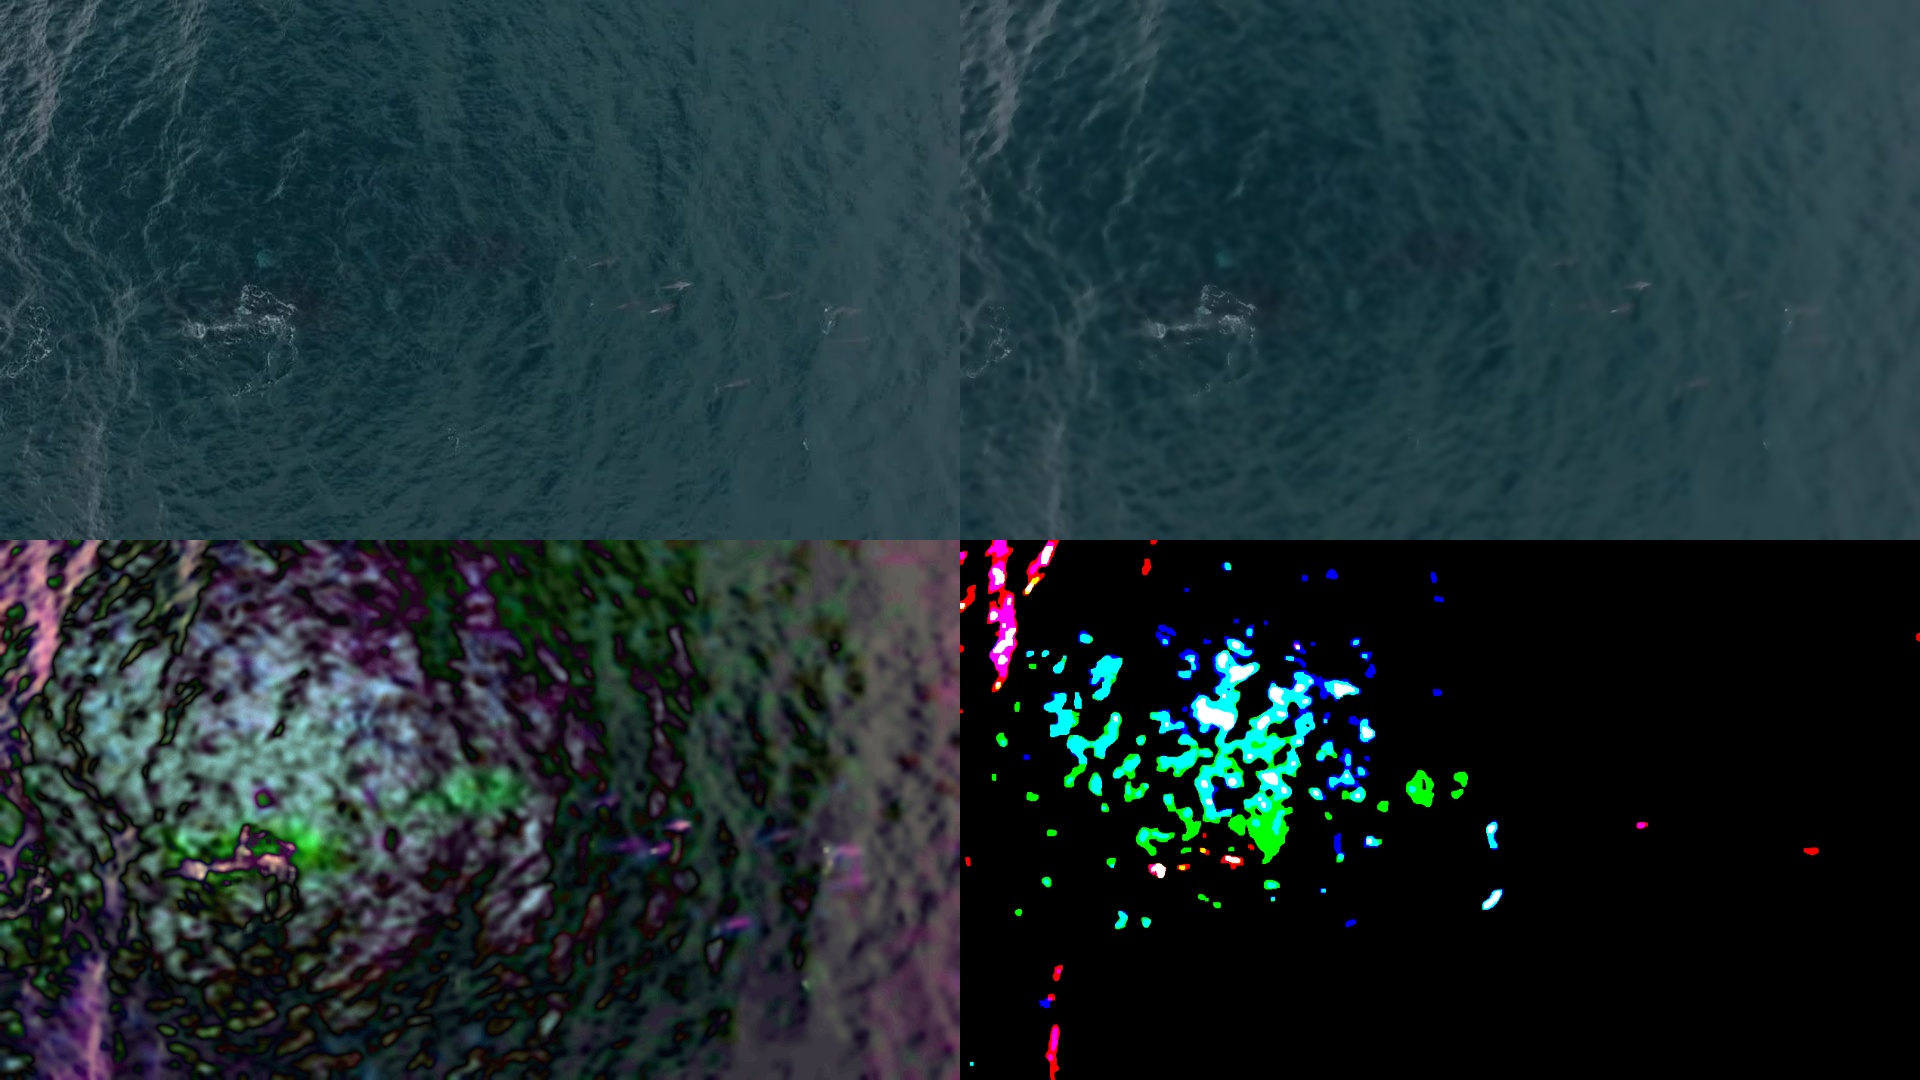
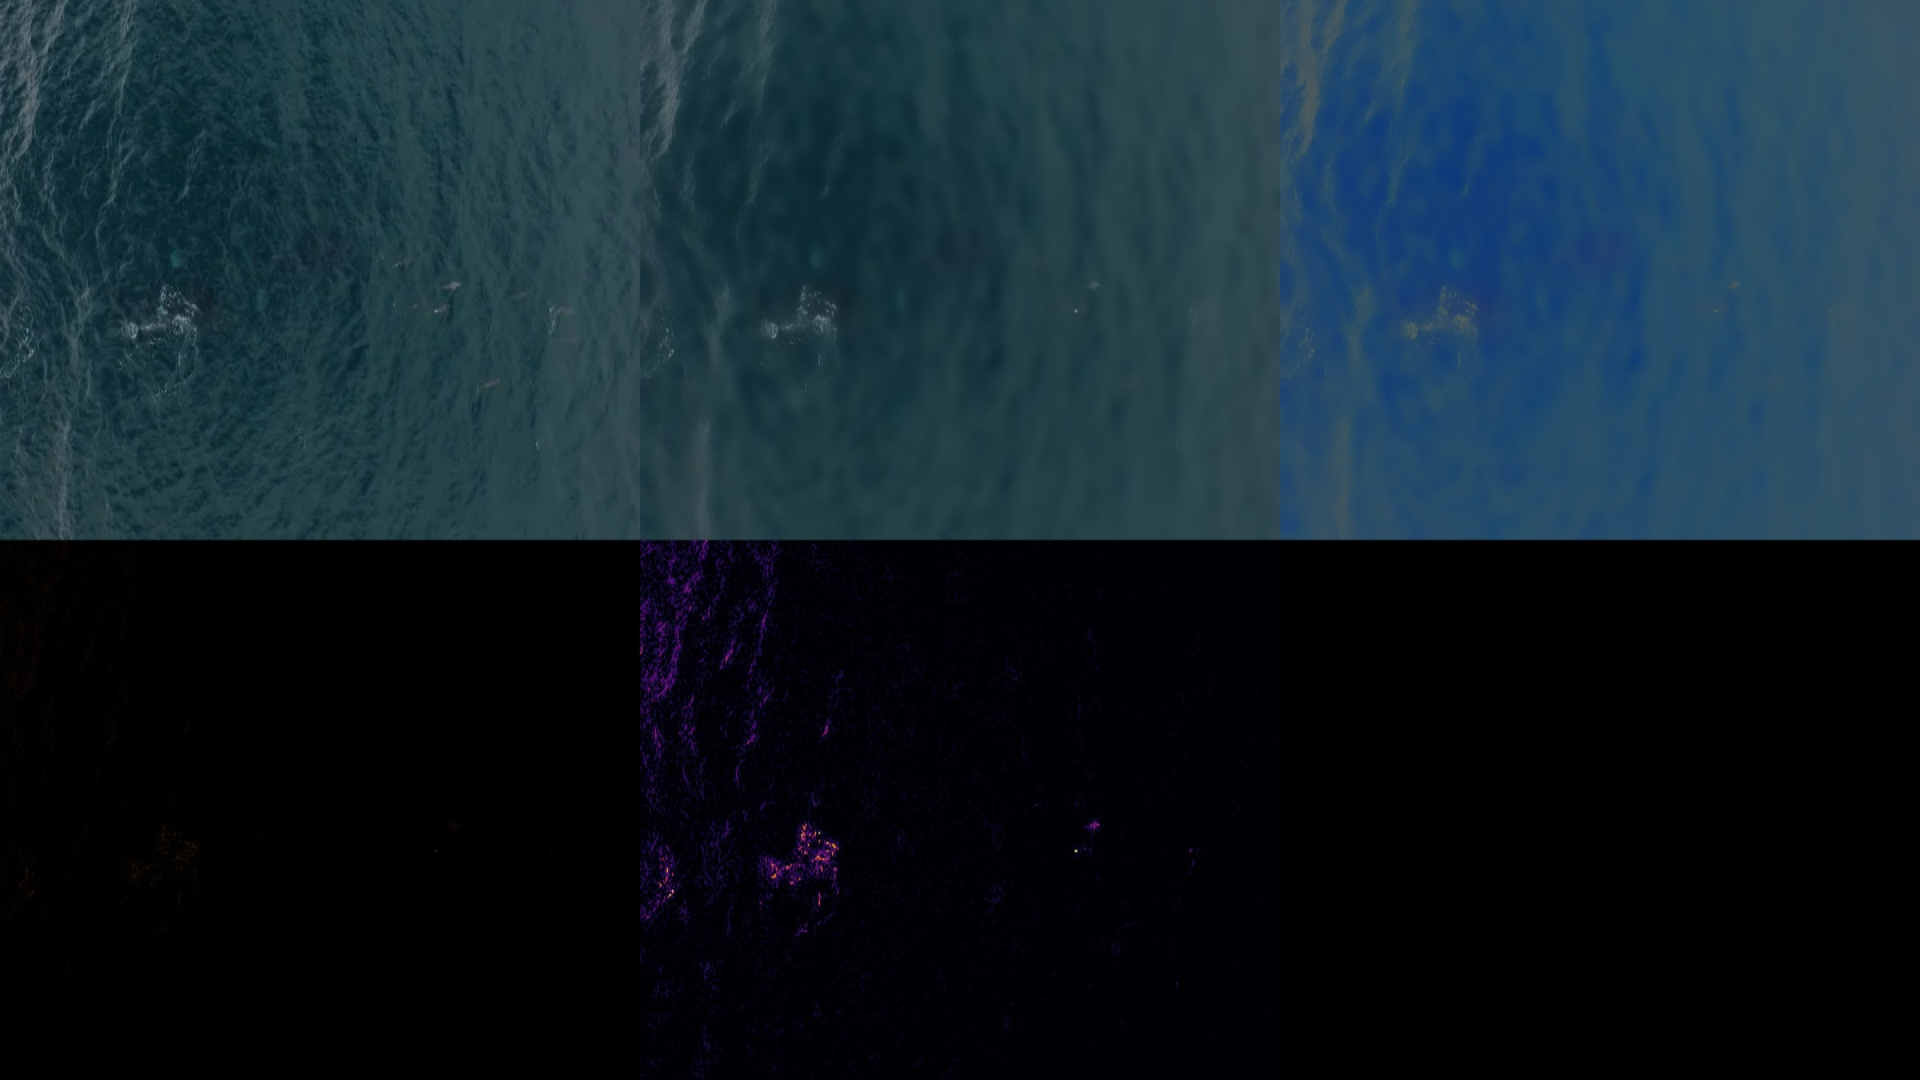
Wow this approach might actually work???

diff --git a/OpenCV Saliency Detection Testing/smart_thresholding_test.py b/OpenCV Saliency Detection Testing/smart_thresholding_test.py
@@ -1,0 +1,180 @@
+import numpy as np
+import cv2
+import time
+import os
+import sys
+import scipy.signal as signal
+
+print(sys.argv)
+
+### Set variables
+
+
+### User functions
+def strideConv(arr, arr2, s):
+    return signal.convolve2d(arr, arr2[::-1, ::-1], mode='valid')[::s, ::s]
+
+def get_centroids(image):
+    contours, _ = cv2.findContours(image, cv2.RETR_TREE, cv2.CHAIN_APPROX_SIMPLE)
+    centroids = np.zeros((2, len(contours)))
+    contours = list(contours)
+    for i in range(len(contours)):
+        contours[i] = np.squeeze(contours[i], axis=1)
+        centroids[:,i] = np.mean(contours[i], axis=0)
+
+def spectral_autodifference(image, blur_strength, color_image=True):
+    # Blur normalized
+    blurred = cv2.blur(image, (int(image.shape[0]*blur_strength),int(image.shape[1]*blur_strength)))
+    
+    # For each channel, compute pixel-wise distance from blurred normals
+    if color_image:
+        color_deviancy  = np.zeros(image.shape)
+        for c in range(3):
+            color_deviancy[:,:,c] = np.absolute(image[:,:,c] - blurred[:,:,c])
+    else:
+        color_deviancy = np.absolute(image - blurred)
+    return color_deviancy
+
+
+## Standard image resolutions
+# Downsize resolution
+hi = 270
+wi = 480
+# Concat output resolution
+con_hi = 1080
+con_wi = 1920
+
+## Preprocessing variables
+blur_str = 0.015
+color_filter_lower_thresh = 60
+
+## Preprocessing options
+downsize                = 1
+bilat_filtering         = 1
+
+# Data directory paths
+in_dataset  = os.path.join(os.getcwd(), 'Input_Dataset')
+conc_output = os.path.join(os.getcwd(), 'Color_Concat_Outputs')
+cont_output = os.path.join(os.getcwd(), 'Conture_Outputs')
+
+## Prepare script
+# Load images from folder into array
+onlyfiles = [ f for f in os.listdir(in_dataset) if os.path.isfile(os.path.join(in_dataset,f)) ]
+images = np.empty(len(onlyfiles), dtype=object)
+for n in range(0, len(onlyfiles)):
+  images[n] = cv2.imread( os.path.join(in_dataset,onlyfiles[n]) )
+
+# Some user interface stuff
+print("Processing images in folder ", in_dataset, "(", len(onlyfiles), " objects )\n")
+if downsize:
+    print("Images will be downsized to ", hi, "x",wi)
+print("\n")
+runtimes = np.zeros(len(onlyfiles))
+
+## Main Loop
+# For each image in list, perform saliency stuff
+for i in range(0,len(images)):
+    start_time = time.time()
+
+    # Extract image
+    frame = images[i]
+
+    ## Image preprocessing
+    blur_rad = int (frame.shape[0]*blur_str)
+
+    print('Processing image "',onlyfiles[i],'", ',i+1,'/',len(images),'. Shape: ', frame.shape)
+    preprocessed_frame = frame.copy()
+
+    if downsize:        # Resize images to standard resolution
+        frame = cv2.resize(frame,(wi, hi))
+        preprocessed_frame = frame.copy()
+    if bilat_filtering: # Bilateral Filter on input image
+        preprocessed_frame = cv2.bilateralFilter(preprocessed_frame, 13, 69,69)
+
+    ## Color filtering
+    col_normd = preprocessed_frame.copy()
+    
+    #Convert to floating-point / normalize values
+    col_normd = col_normd/255.0
+    # Normalize colors
+    for c in range(3):
+        col_normd[:,:,c] = col_normd[:,:,c] / (1.0/255.0 + col_normd[:,:,0] + col_normd[:,:,1] + col_normd[:,:,2]) # Normalize colors
+
+    # Blur normalized
+    blurred_col_normd = cv2.blur(col_normd,(blur_rad,blur_rad))
+
+    # For each channel, compute pixel-wise distance from blurred normals
+    color_deviancy = np.zeros(col_normd.shape)
+    for c in range(0,3):
+        color_deviancy[:,:,c] = np.absolute(col_normd[:,:,c] - blurred_col_normd[:,:,c])
+    #color_deviancy = np.absolute(col_normd - blurred_col_normd)
+
+    """
+    # Selective brightness boosting
+    booster_threshold = 0.2
+    boosted_deviancy = np.sum(color_deviancy, axis=2)/3
+    higest_val = np.max(boosted_deviancy)
+    boosted_deviancy[np.absolute(np.average(boosted_deviancy) - higest_val) > booster_threshold] = 1
+    boosted_deviancy = cv2.applyColorMap(cv2.cvtColor((boosted_deviancy*255).astype(np.ubyte),cv2.COLOR_GRAY2BGR), cv2.COLORMAP_INFERNO)
+    """
+
+    processed_deviancy = color_deviancy.copy()
+
+    booster_threshold = 0.01
+
+    processed_deviancy = np.sum(color_deviancy, axis=2)/3
+    processed_deviancy_blur = cv2.blur(processed_deviancy, (blur_rad, blur_rad))
+    maxus = np.max(processed_deviancy)
+    normalized_diff = (np.absolute(processed_deviancy - processed_deviancy_blur))/maxus
+    processed_deviancy = np.where(normalized_diff<booster_threshold, processed_deviancy, processed_deviancy/maxus)
+    #processed_deviancy = cv2.resize(processed_deviancy, (wi,hi), interpolation=cv2.INTER_AREA)
+    print(booster_threshold, round(maxus,4), round(np.average(normalized_diff),4), round(np.max(normalized_diff),4))
+
+
+    processed_deviancy = cv2.applyColorMap(cv2.cvtColor((processed_deviancy*255).astype(np.ubyte),cv2.COLOR_GRAY2BGR), cv2.COLORMAP_INFERNO)
+
+
+    color_deviancy = (color_deviancy*255).astype(np.ubyte)      # Convert result to image-readable format
+    col_normd = (col_normd*255).astype(np.ubyte)                    # Convert result to image-readable format
+    blurred_col_normd = (blurred_col_normd*255).astype(np.ubyte)        # Convert result to image-readable format
+
+    # Threshold values
+    _disc, threshed_detections = cv2.threshold(cv2.cvtColor(cv2.blur(processed_deviancy,(blur_rad//2,blur_rad//2)), cv2.COLOR_BGR2GRAY),color_filter_lower_thresh,255,cv2.THRESH_BINARY)
+    
+    # Perform morphology to remove isolated pixels
+    threshed_detections = cv2.morphologyEx(threshed_detections, cv2.MORPH_OPEN, np.ones((3,3), np.uint8))
+    
+    ## Detection
+    # Contours
+    # Centroids
+    #threshed_detections = cv2.cvtColor(threshed_detections, cv2.COLOR_GRAY2BGR)
+    
+    ## Image post-processing
+    print(threshed_detections.shape)
+    if len(threshed_detections.shape)<3:
+        threshed_detections = cv2.cvtColor(threshed_detections, cv2.COLOR_GRAY2BGR)
+
+    # Image Merging
+    hcon1 = cv2.hconcat([frame, preprocessed_frame, col_normd])
+    hcon2 = cv2.hconcat([color_deviancy, processed_deviancy,threshed_detections])
+    displ = cv2.vconcat([hcon1, hcon2])
+
+    # Downsize concat image
+    displ = cv2.resize(displ, (con_wi, con_hi))
+
+    # Save outputs
+    im_name_conc = str ('concatd_' + onlyfiles[i])
+    im_name_cont = str ('contured_' + onlyfiles[i])
+    cv2.imwrite(os.path.join(conc_output , im_name_conc), displ)
+    #cv2.imwrite(os.path.join(cont_output, im_name_cont), drawn_im)
+
+    # Timings
+    end_time = time.time()
+    proc_time = round(end_time - start_time, 3)
+    print('Processing time: ', proc_time, ' [s]\n')
+    runtimes[i] = proc_time
+
+print("Total processing time for",len(runtimes), "images:   ", np.sum(runtimes), "[s]\nAverage processing time:              ", round(np.average(runtimes),3),"[s]")
+
+## Close webcam
+cv2.destroyAllWindows()

diff --git a/OpenCV Saliency Detection Testing/pure_color_detection.py b/OpenCV Saliency Detection Testing/pure_color_detection.py
@@ -3,26 +3,48 @@ import cv2
 import time
 import os
 import sys
+import scipy.signal as signal
 
 print(sys.argv)
 
 ### Set variables
 
+
+### User functions
+def strideConv(arr, arr2, s):
+    return signal.convolve2d(arr, arr2[::-1, ::-1], mode='valid')[::s, ::s]
+
+def get_centroids(image):
+    contours, _ = cv2.findContours(image, cv2.RETR_TREE, cv2.CHAIN_APPROX_SIMPLE)
+    centroids = np.zeros((2, len(contours)))
+    contours = list(contours)
+    for i in range(len(contours)):
+        contours[i] = np.squeeze(contours[i], axis=1)
+        centroids[:,i] = np.mean(contours[i], axis=0)
+
+
 ## Standard image resolutions
 # Downsize resolution
-hi = 720
-wi = 1270
+hi = 270
+wi = 480
 # Concat output resolution
 con_hi = 1080
 con_wi = 1920
 
 ## Preprocessing variables
 blur_str = 0.015
-color_filter_lower_thresh = 130
+color_filter_lower_thresh = 90
+
+# Bilateral filtering parameters // Attempts are made to make these image-size invariant
+neighborhood_gain   = 0.05
+sigmaColor_gain     = 0.2
+sigmaSpace_gain     = 0.2
+filter_neighborhood = int(neighborhood_gain*wi)
+sigmaColor          = int(sigmaColor_gain*wi)
+sigmaSpace          = int(sigmaSpace_gain*wi)
 
 ## Preprocessing options
 downsize                = 1
-color_filtering         = 1
 bilat_filtering         = 1
 
 # Data directory paths
@@ -42,6 +64,7 @@ print("Processing images in folder ", in_dataset, "(", len(onlyfiles), " objects
 if downsize:
     print("Images will be downsized to ", hi, "x",wi)
 print("\n")
+runtimes = np.zeros(len(onlyfiles))
 
 ## Main Loop
 # For each image in list, perform saliency stuff
@@ -61,48 +84,46 @@ for i in range(0,len(images)):
         frame = cv2.resize(frame,(wi, hi))
         preprocessed_frame = frame.copy()
     if bilat_filtering: # Bilateral Filter on input image
-        preprocessed_frame = cv2.bilateralFilter(preprocessed_frame, 13, 69,69)
+        preprocessed_frame = cv2.bilateralFilter(preprocessed_frame, filter_neighborhood, sigmaColor=sigmaColor,sigmaSpace=sigmaSpace)
 
     ## Color filtering
     col_filtd = preprocessed_frame.copy()
 
     # Blur image
-    col_filtd = cv2.blur(col_filtd, (blur_rad, blur_rad))
+    #col_filtd = cv2.blur(col_filtd, (blur_rad, blur_rad))
     
     #Convert to floating-point / normalize values
     col_filtd = col_filtd/255.0
-
     # Normalize colors
     for c in range(3):
         col_filtd[:,:,c] = col_filtd[:,:,c] / (1.0/255.0 + col_filtd[:,:,0] + col_filtd[:,:,1] + col_filtd[:,:,2]) # Normalize colors
     
     # Compute channel-wise averages
     avg_color_per_row = np.average(col_filtd, axis=0)
-    avg_color = (np.average(avg_color_per_row, axis=0))#*255).astype(int)
+    avg_color = np.average(avg_color_per_row, axis=0)
     print("Average normalized color values, BGR: ",avg_color)
 
     # For each channel, compute pixel-wise distance from average
     color_deviancy = np.zeros(col_filtd.shape)
     for c in range(0,3):
         color_deviancy[:,:,c] = np.absolute(col_filtd[:,:,c] - avg_color[c])
-    #-- Some image info
-    """
-    avg_color_per_row = np.average(color_deviancy, axis=0)
-    avg_color = (np.average(avg_color_per_row, axis=0))
-    channel_maxes = np.array([np.max(color_deviancy[:,:,0]),np.max(color_deviancy[:,:,1]),np.max(color_deviancy[:,:,2])])
-    print("Color deviancy stats:\n   Average values: ", avg_color, "\n   Max values: ", channel_maxes)
     
-    spectrum_canditates = np.argsort(channel_maxes)
-    print("   Sorted channel max indices: ", spectrum_canditates)
-    color_deviancy[:,:, spectrum_canditates[0]] = color_deviancy[:,:, spectrum_canditates[0]]/2.0
-    color_deviancy[:,:, spectrum_canditates[1]] = color_deviancy[:,:, spectrum_canditates[1]]/1.5
-    #--"""
-        # Normalize brightness
-    for c in range(3):
-        color_deviancy[:,:,c] = (color_deviancy[:,:,c]/np.max(color_deviancy[:,:,c]))
+    # Normalize brightness  ## NOTE! This is a bad idea! Replace with some smarter convolution asap!
+    #for c in range(3):
+    #    color_deviancy[:,:,c] = (color_deviancy[:,:,c]/np.max(color_deviancy[:,:,c]))
 
+    # Experiment more with this filter
+    #color_deviancy = cv2.pyrMeanShiftFiltering(color_deviancy, 4, 16, maxLevel=1)
+
+    # Experiment with convolution and difference from average
+    ##################
+    color_deviancy = np.sum(color_deviancy, axis=2)/3
+    color_deviancy = strideConv(color_deviancy, np.zeros((5,5))+0.11, 5)
+    color_deviancy = np.absolute(color_deviancy - np.average(color_deviancy))
+    color_deviancy = cv2.resize(color_deviancy,(wi, hi))
+    ##################
     color_deviancy = (color_deviancy*255).astype(np.ubyte)  # Convert result to image-readable format
-
+    color_deviancy = cv2.cvtColor(color_deviancy, cv2.COLOR_GRAY2BGR)       ########
     # Threshold values
     _disc, threshed_detections = cv2.threshold(color_deviancy,color_filter_lower_thresh,255,cv2.THRESH_BINARY)
     
@@ -110,15 +131,8 @@ for i in range(0,len(images)):
     threshed_detections = cv2.morphologyEx(threshed_detections, cv2.MORPH_OPEN, np.ones((5,5), np.uint8))
     
     ## Detection
-    """
-    def get_centroids(self):
-        contours, _ = cv2.findContours(self.image_processed, cv2.RETR_TREE, cv2.CHAIN_APPROX_SIMPLE)
-        centroids = np.zeros((2, len(contours)))
-        contours = list(contours)
-        for i in range(len(self.contours)):
-            contours[i] = np.squeeze(contours[i], axis=1)
-            centroids[:,i] = np.mean(contours[i], axis=0)
-    """
+    # Contours
+    # Centroids
     #threshed_detections = cv2.cvtColor(threshed_detections, cv2.COLOR_GRAY2BGR)
     
     
@@ -131,17 +145,19 @@ for i in range(0,len(images)):
     # Downsize concat image
     displ = cv2.resize(displ, (con_wi, con_hi))
 
-    # Timings
-    end_time = time.time()
-    proc_time = round(end_time - start_time, 3)
-    print('Processing time: ', proc_time, ' [s]\n')
-
     # Save outputs
     im_name_conc = str ('concatd_' + onlyfiles[i])
     im_name_cont = str ('contured_' + onlyfiles[i])
     cv2.imwrite(os.path.join(conc_output , im_name_conc), displ)
     #cv2.imwrite(os.path.join(cont_output, im_name_cont), drawn_im)
 
+    # Timings
+    end_time = time.time()
+    proc_time = round(end_time - start_time, 3)
+    print('Processing time: ', proc_time, ' [s]\n')
+    runtimes[i] = proc_time
+
+print("Total processing time for",len(runtimes), "images:   ", np.sum(runtimes), "[s]\nAverage processing time:              ", round(np.average(runtimes),3),"[s]")
 
 ## Close webcam
 cv2.destroyAllWindows()
